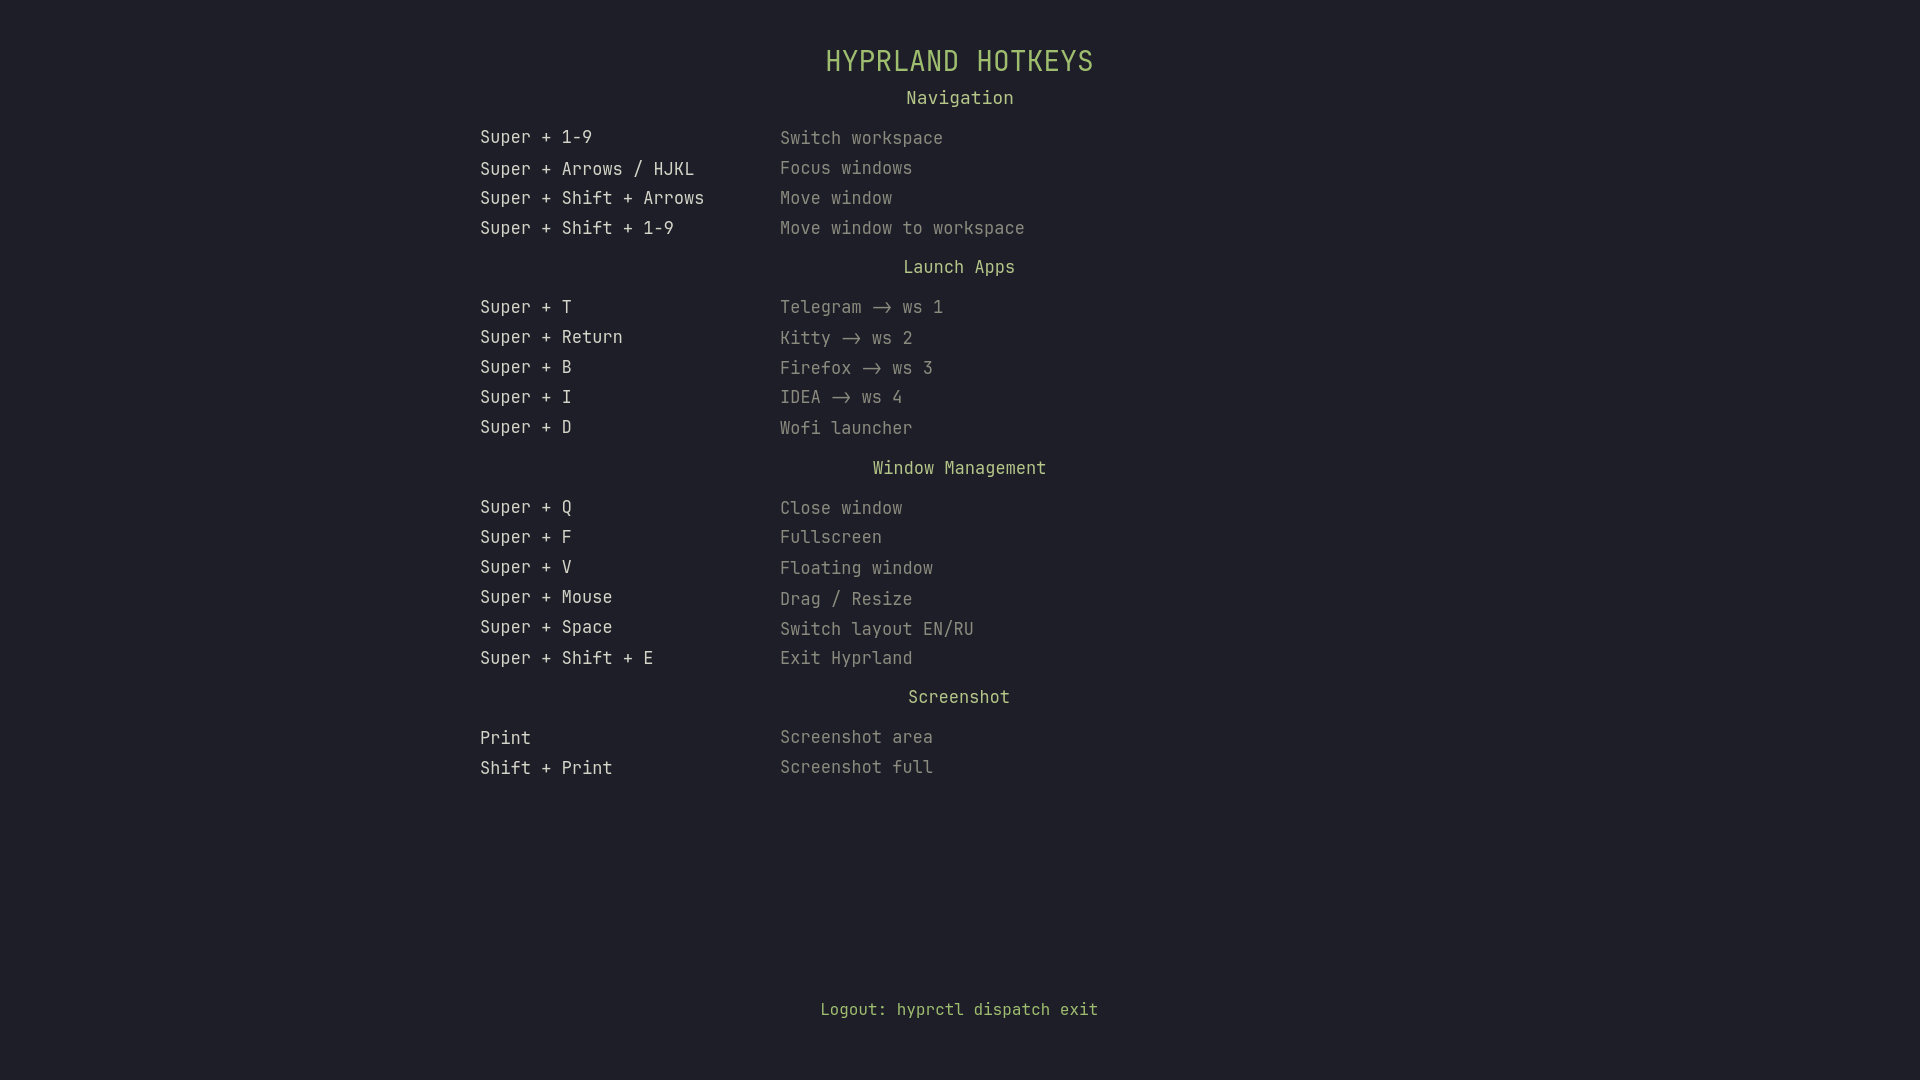
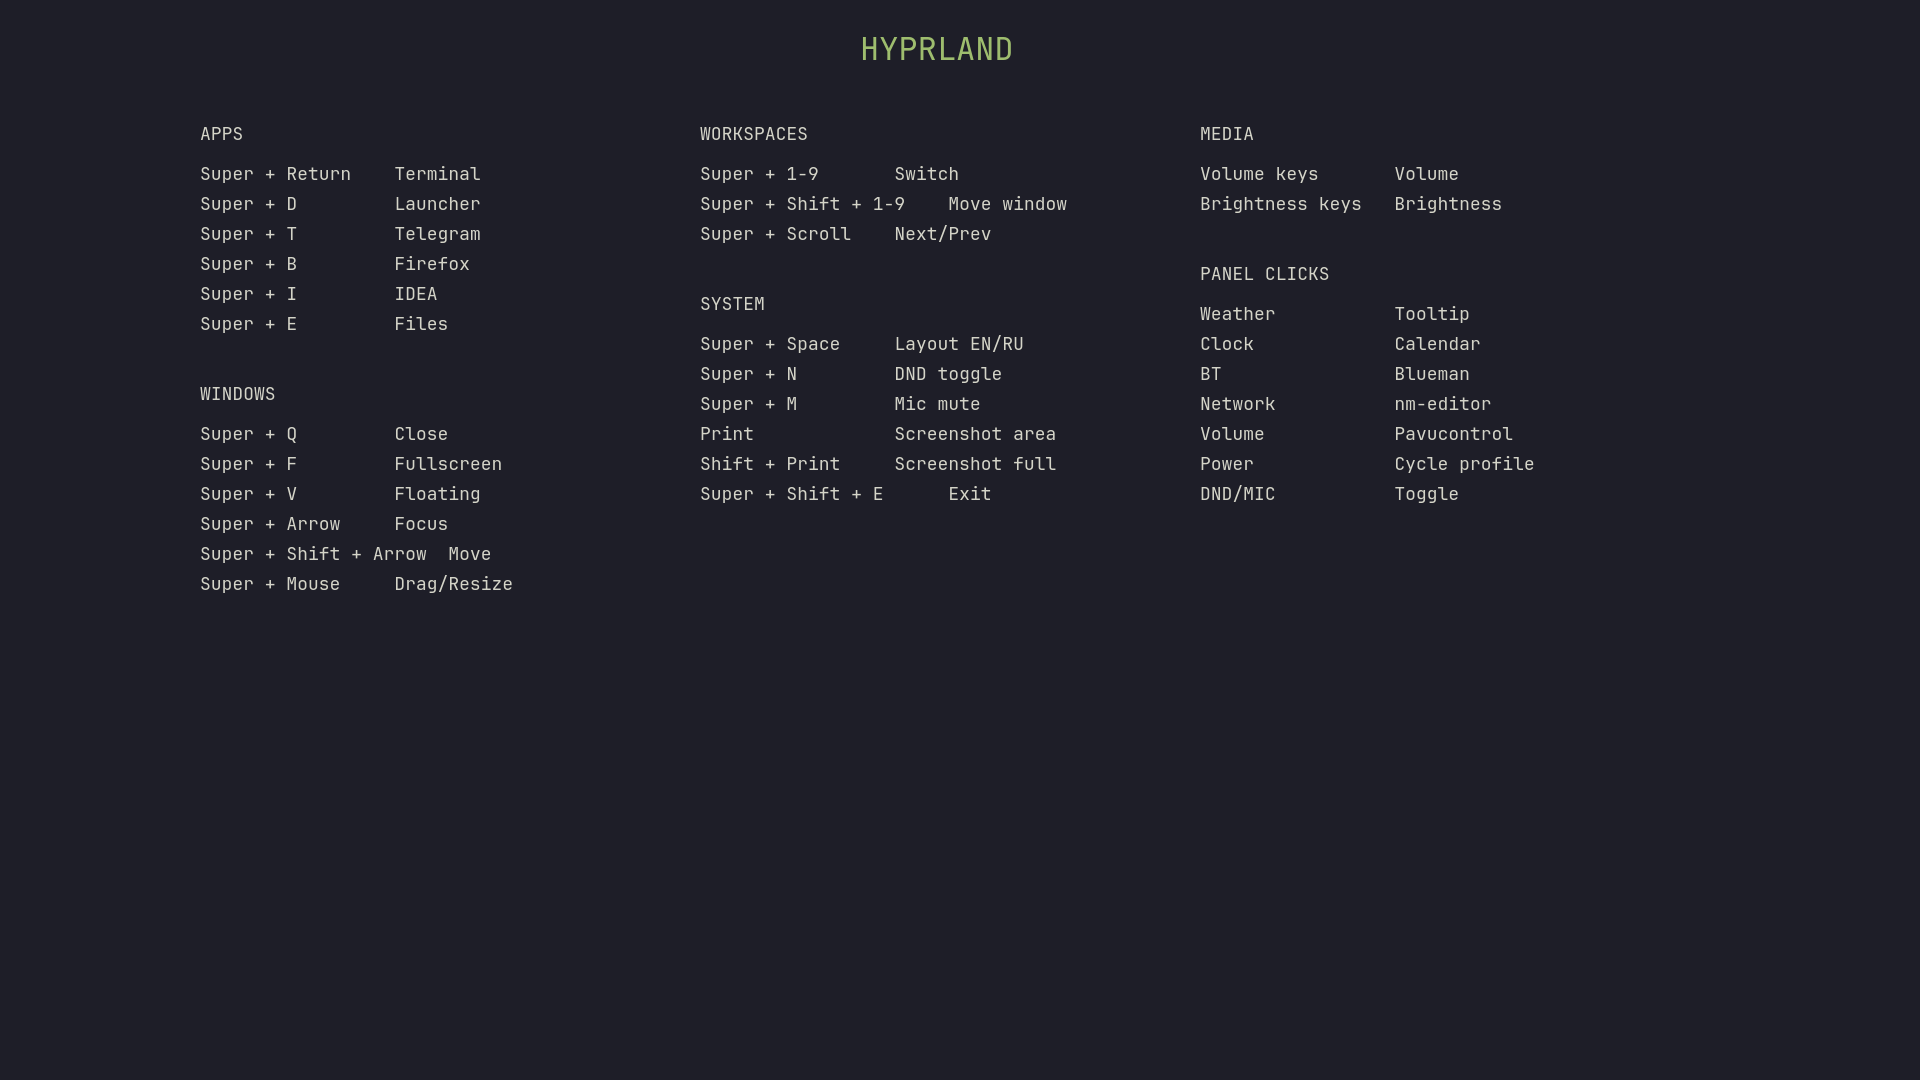
Add DND and mic mute indicators with auto screen-share detection
- Add DND module with blinking indicator (Super+N)
  - Add mic mute module with blinking indicator (Super+M)
  - Add auto-DND script for screen sharing detection
  - Update cheatsheet wallpaper with new hotkeys

diff --git a/waybar/.config/waybar/style.css b/waybar/.config/waybar/style.css
@@ -41,6 +41,8 @@ window#waybar {
 #custom-weather,
 #custom-power-profile,
 #custom-bluetooth,
+#custom-dnd,
+#custom-mic,
 #clock,
 #battery,
 #network,
@@ -50,6 +52,18 @@ window#waybar {
 #temperature,
 #tray {
     padding: 0 10px;
+}
+
+#custom-dnd.on,
+#custom-mic.muted {
+    color: #d4726a;
+    animation: blink 0.8s ease-in-out infinite;
+}
+
+@keyframes blink {
+    0% { opacity: 1; }
+    50% { opacity: 0.2; }
+    100% { opacity: 1; }
 }
 
 #cpu.warning,
